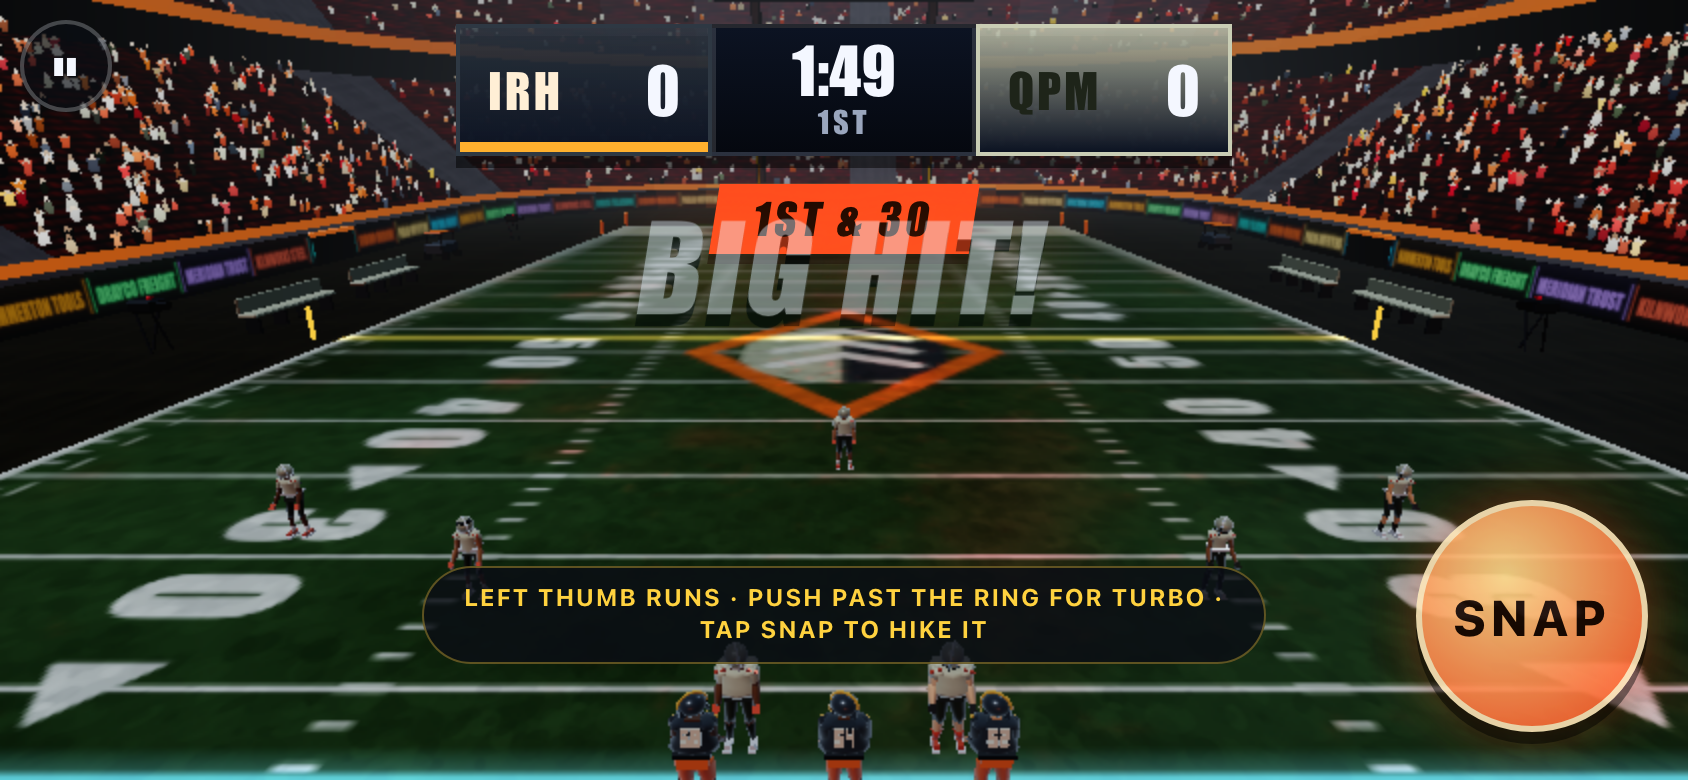
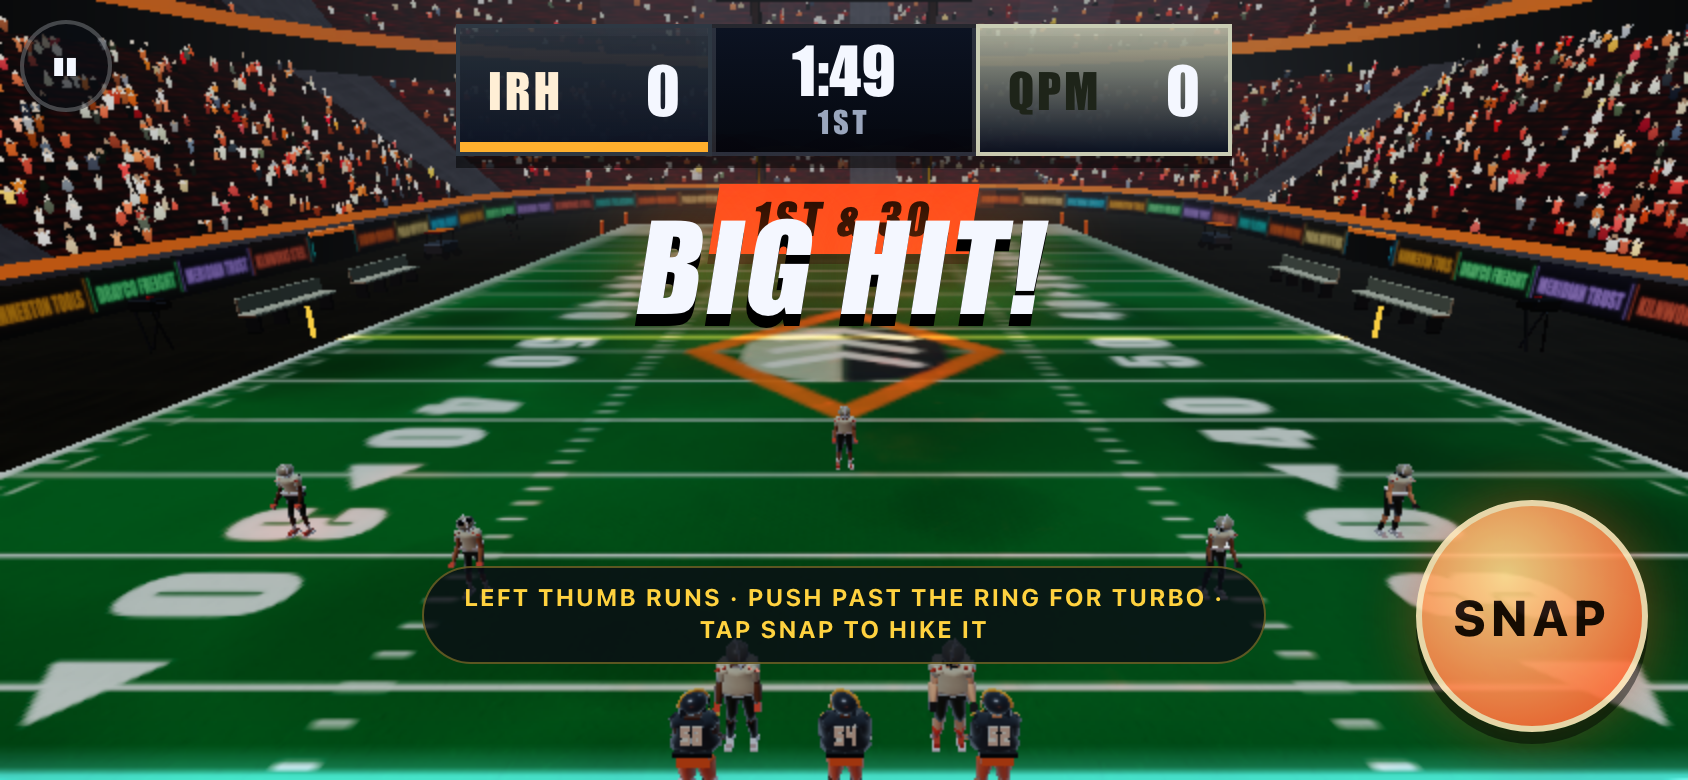
Wave 4 (part 5): renderer reuse for instant retry (W4-006)
- loadMatch keyed by matchup/venue/weather/quality: same key resets dynamic state
  (rig visibility, motion, anim) and reuses environment, PMREM, rigs, ball, markers,
  effects pools — no rebuild, no shader warmup on ONE MORE DRIVE
- endMatch defers teardown instead of paying it: an immediate retry cancels the debt,
  the first menu frame settles it (renderMenu performs the real unload)
- all probes green: 7/7 driverush, 18/18 classic, 32/32 touch, 20/20 lifecycle,
  255 unit tests, 25/25 scenarios

diff --git a/src/render/renderer.ts b/src/render/renderer.ts
@@ -201,8 +201,27 @@ export class GameRenderer {
   }
 
   /** Build (or rebuild) the world for a match. */
+  /** What the current scene was built for. Same key on the next load = reset, not rebuild. */
+  private loadedKey = '';
+  /** Teardown owed but postponed: an immediate retry cancels it; entering a menu performs it. */
+  private unloadDeferred = false;
+
+  /**
+   * The match is over but its scene may be wanted again in a second (ONE MORE DRIVE). Owe the
+   * teardown instead of paying it: the next same-key loadMatch cancels the debt and reuses
+   * everything; the first menu frame settles it for real.
+   */
+  deferUnload(): void { this.unloadDeferred = true; }
+
   loadMatch(home: TeamDef, away: TeamDef, stadium: StadiumDef, conditions: Conditions): void {
+    // Same matchup, same venue, same weather, same quality: every expensive resource — the
+    // environment and its PMREM capture, fourteen athlete rigs, ball, markers, effects pools —
+    // is still exactly right. Reset the dynamic state and skip the rebuild; this is what makes
+    // ONE MORE DRIVE feel instant instead of re-running venue construction and shader warmup.
+    const key = `${home.id}|${away.id}|${stadium.id}|${conditions.weather}|${JSON.stringify(this.quality)}`;
+    if (this.loadedKey === key && this.env) { this.unloadDeferred = false; this.resetMatchScene(); return; }
     this.unloadMatch();
+    this.loadedKey = key;
     this.env = buildEnvironment(this.registry, { home, away, stadium, conditions, quality: this.quality });
     // Capture the finished venue into an environment map BEFORE any athlete exists, so the
     // reflections in a helmet are the sky, the stands and the turf — and not fourteen other
@@ -245,6 +264,14 @@ export class GameRenderer {
     for (const m of this.motion) { m.visible = false; m.fadeDur = 0; m.bank = 0; m.rigKey = -1; }
     for (let i = 0; i < this.lastAnimState.length; i++) { this.lastAnimState[i] = ''; this.animT[i] = 0; }
     this.prewarm();
+  }
+
+  /** Same-configuration retry: hide and neutralize everything dynamic, dispose nothing. */
+  private resetMatchScene(): void {
+    for (const m of this.rigs) for (const r of m.values()) r.root.visible = false;
+    for (const sp of this.numberSprites) sp.visible = false;
+    for (const m of this.motion) { m.visible = false; m.fadeDur = 0; m.bank = 0; m.rigKey = -1; }
+    for (let i = 0; i < this.lastAnimState.length; i++) { this.lastAnimState[i] = ''; this.animT[i] = 0; }
   }
 
   /**
@@ -314,6 +341,8 @@ export class GameRenderer {
   }
 
   unloadMatch(): void {
+    this.loadedKey = '';
+    this.unloadDeferred = false;
     this.scene.environment = null;
     this.envRT?.dispose();
     this.envRT = null;
@@ -690,6 +719,7 @@ export class GameRenderer {
   }
 
   renderMenu(t: number): void {
+    if (this.unloadDeferred) this.unloadMatch();
     this.gameCamera.menuOrbit(t);
     this.env?.crowd.setExcitement(0.35);
     this.render();

diff --git a/src/app/Game.ts b/src/app/Game.ts
@@ -403,7 +403,9 @@ export class Game {
     this.match.dispose();
     this.match = null;
     this.inMatch = false;
-    this.renderer.unloadMatch();
+    // Deferred: an immediate same-matchup retry reuses the whole scene; a menu frame pays the
+    // teardown instead.
+    this.renderer.deferUnload();
     this.hud.detach();
   }
 
